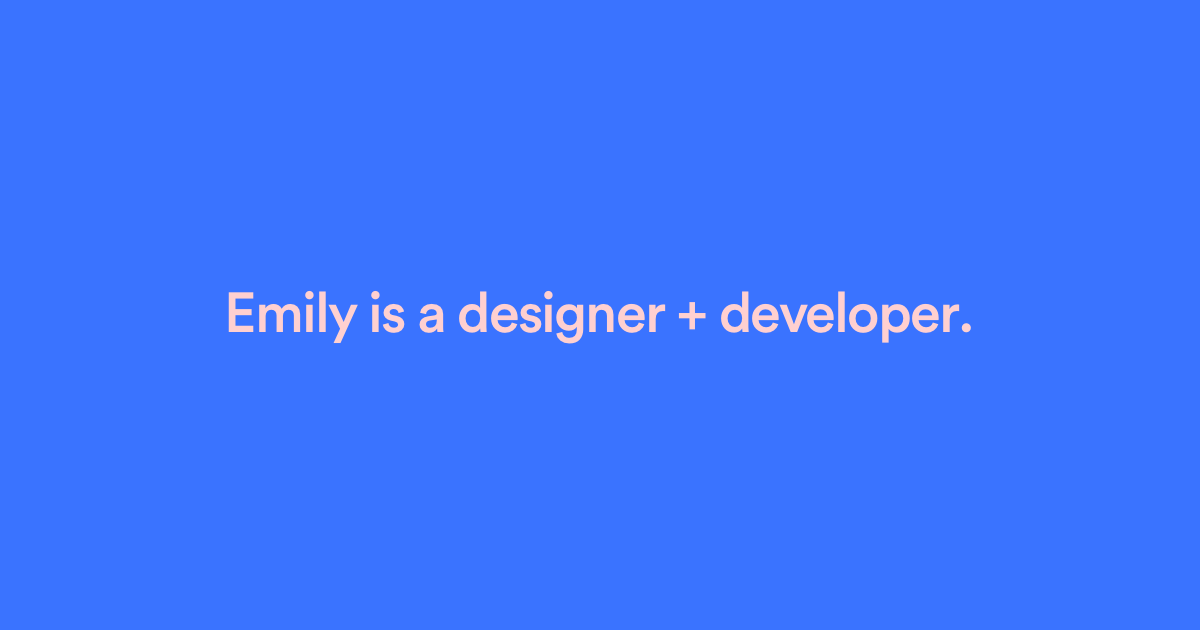
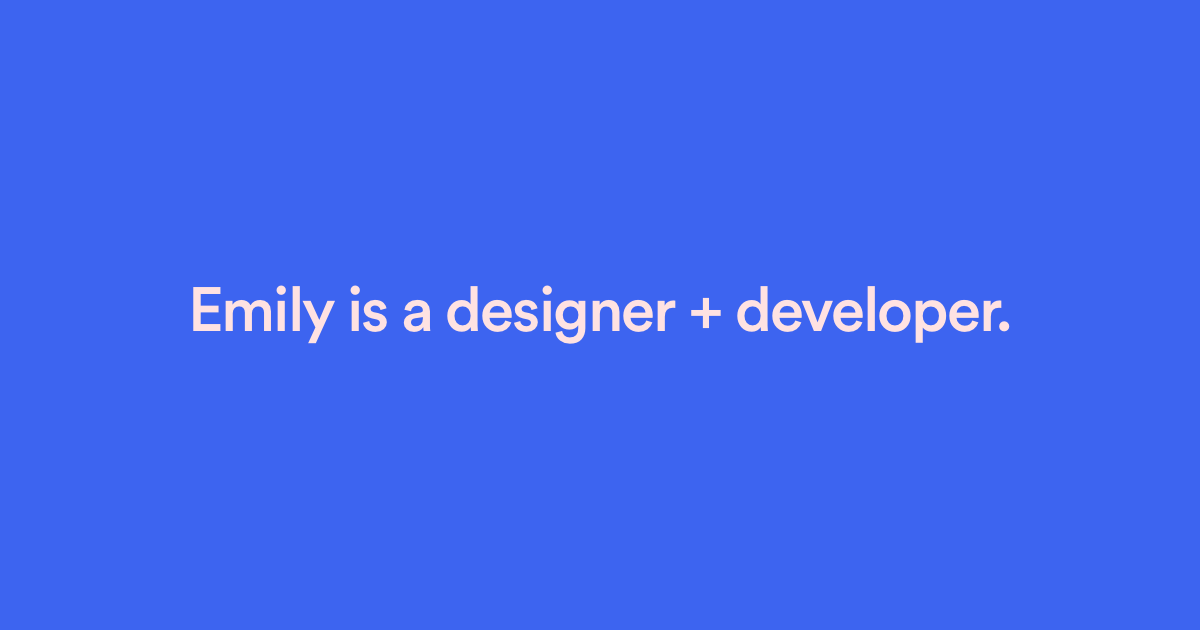
Adjust pink

Changed region(s): [[0.1542, 0.4524, 0.8633, 0.5429]]

diff --git a/public/css/main.css b/public/css/main.css
@@ -1331,7 +1331,7 @@ footer {
   z-index: -9999; }
 
 #banner-container {
-  color: #ffcfcf;
+  color: #ffe2e2;
   background-color: #3d64f0;
   top: 0;
   left: 0;
@@ -1350,7 +1350,7 @@ footer {
   @media (hover: hover) {
     #banner-container:hover {
       color: #3d64f0;
-      background-color: #ffcfcf; } }
+      background-color: #ffe2e2; } }
   @media only screen and (min-width: 1024px) {
     #banner-container {
       height: 35rem;

diff --git a/public/scss/abstracts/_variables.scss b/public/scss/abstracts/_variables.scss
@@ -18,7 +18,7 @@ $blue: #405aee; //original
 $blue: #325aee;
 $blue: #3d64f0;
 
-$pink: #ffcfcf;
+$pink: #ffe2e2;
 //$dark-pink: darken($pink, 30%);
 //$dark-pink: #ff4870;
 
